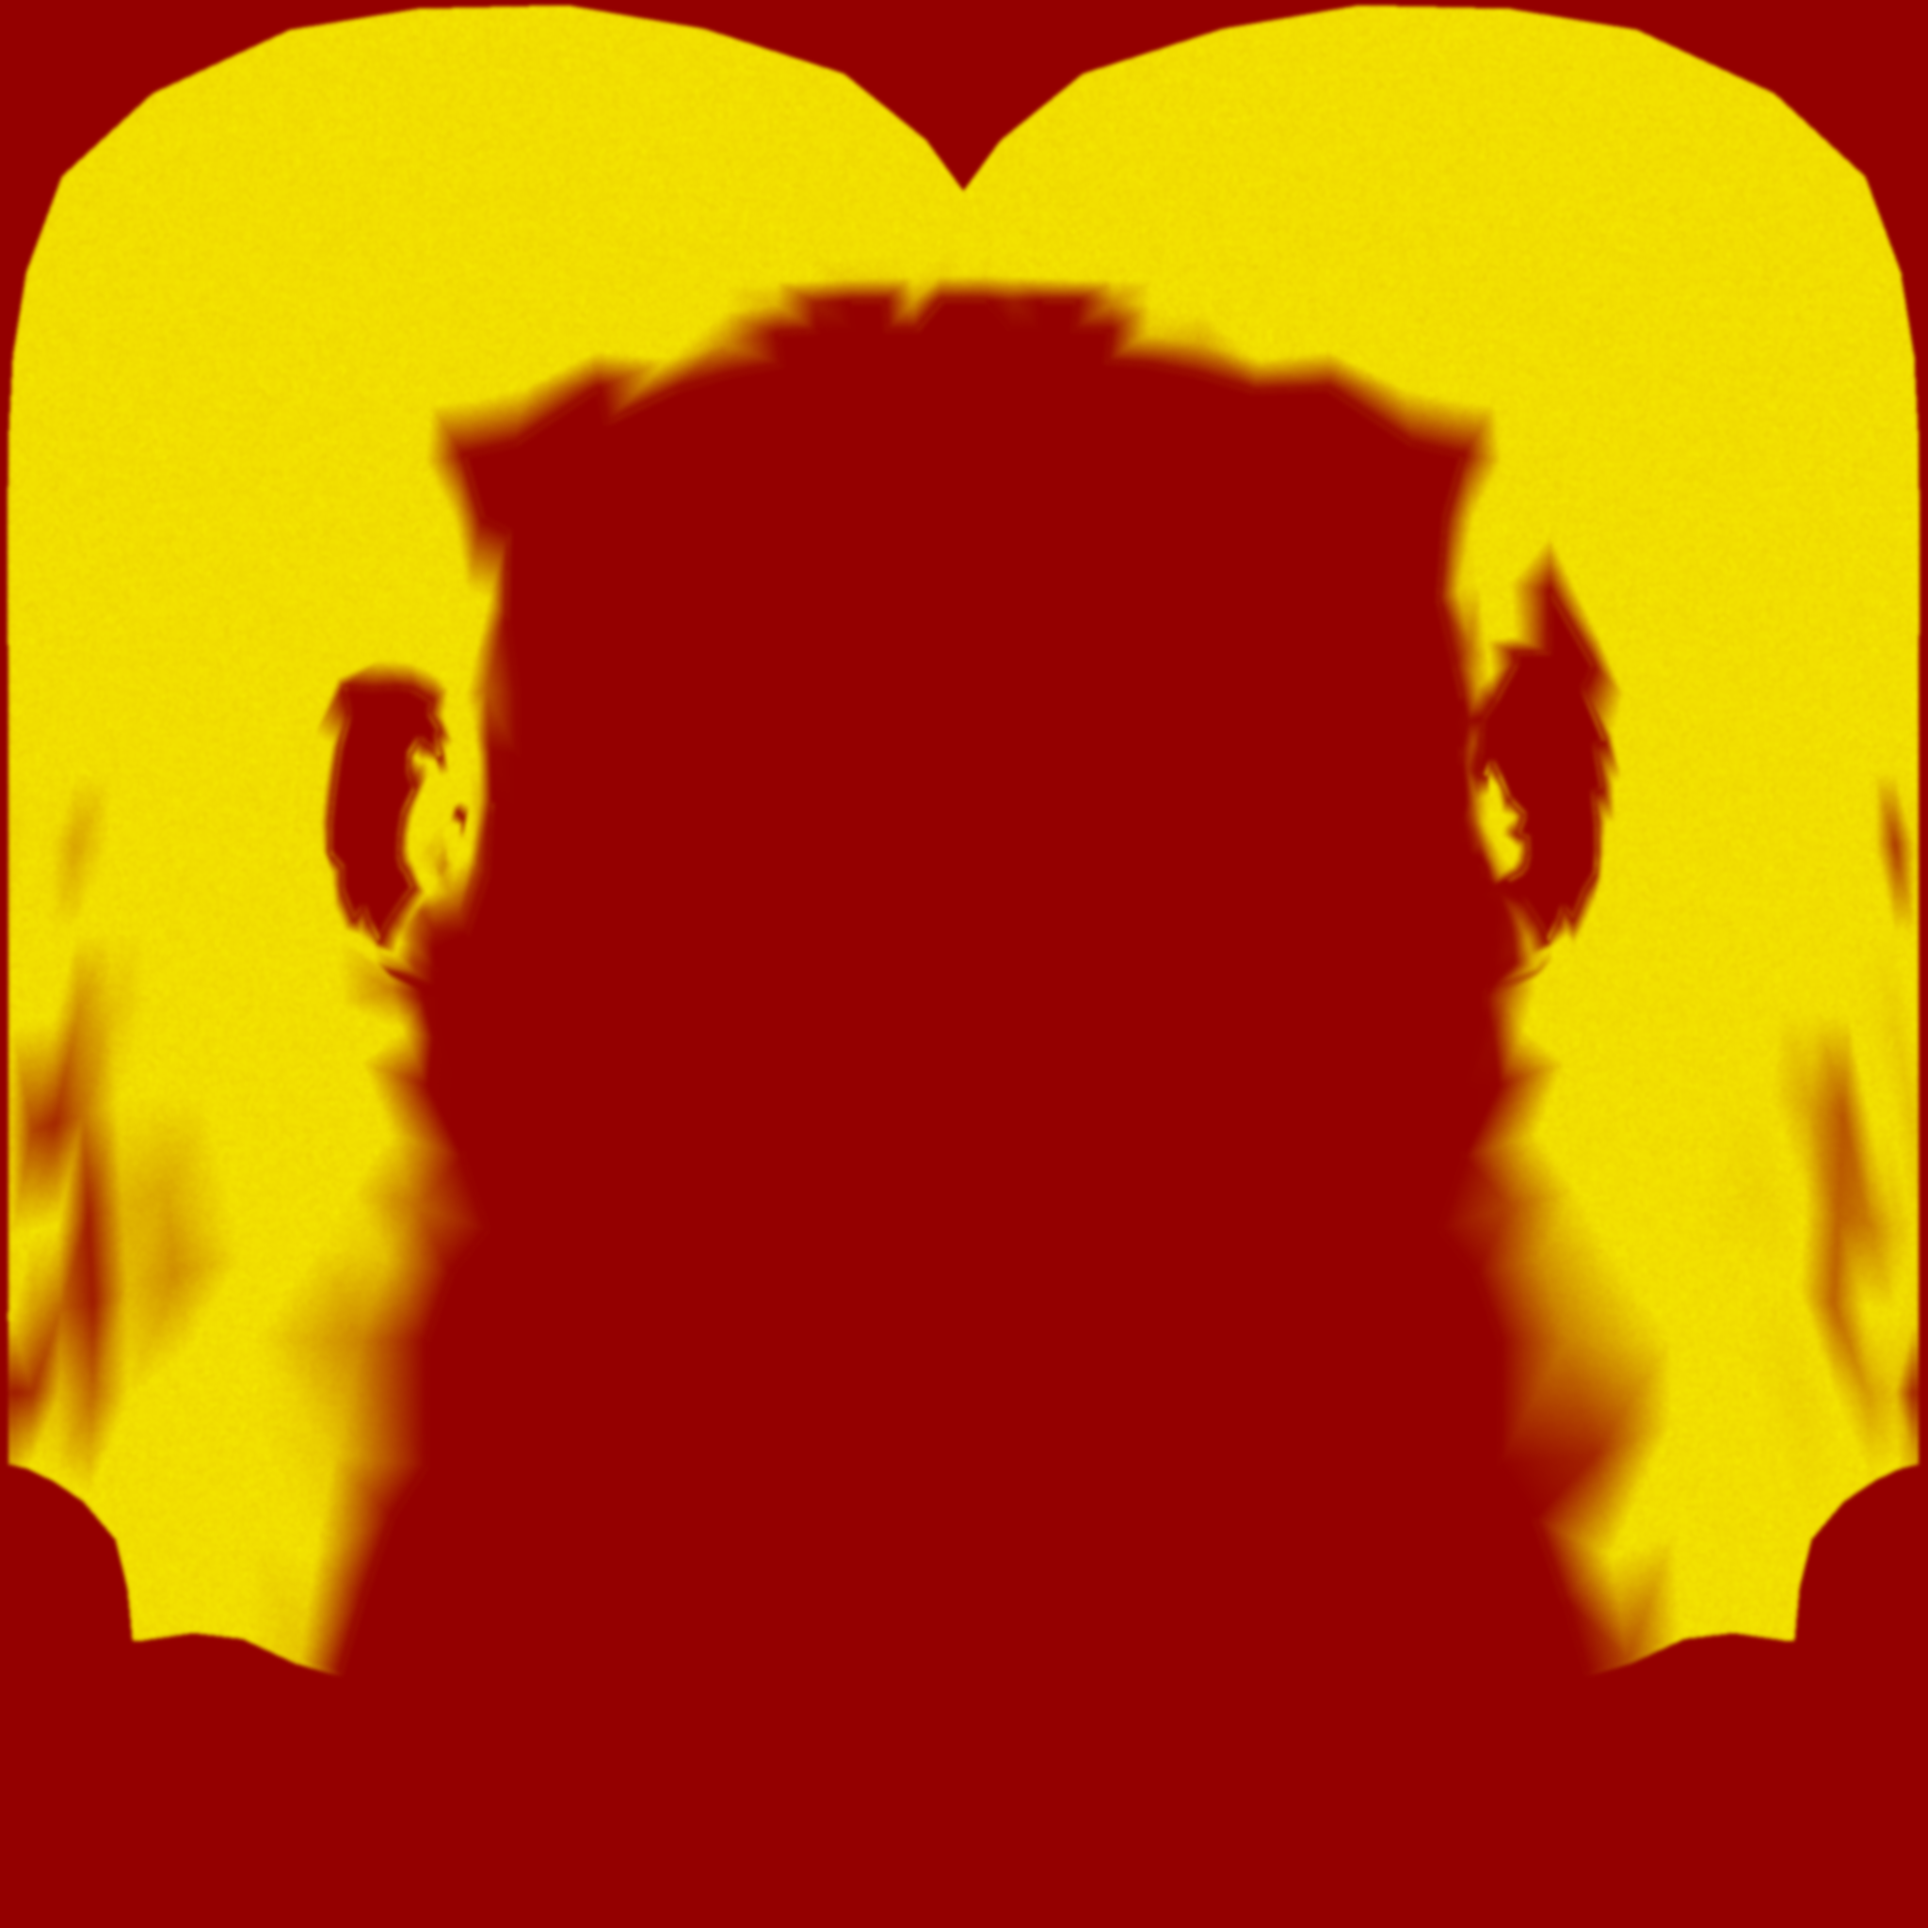
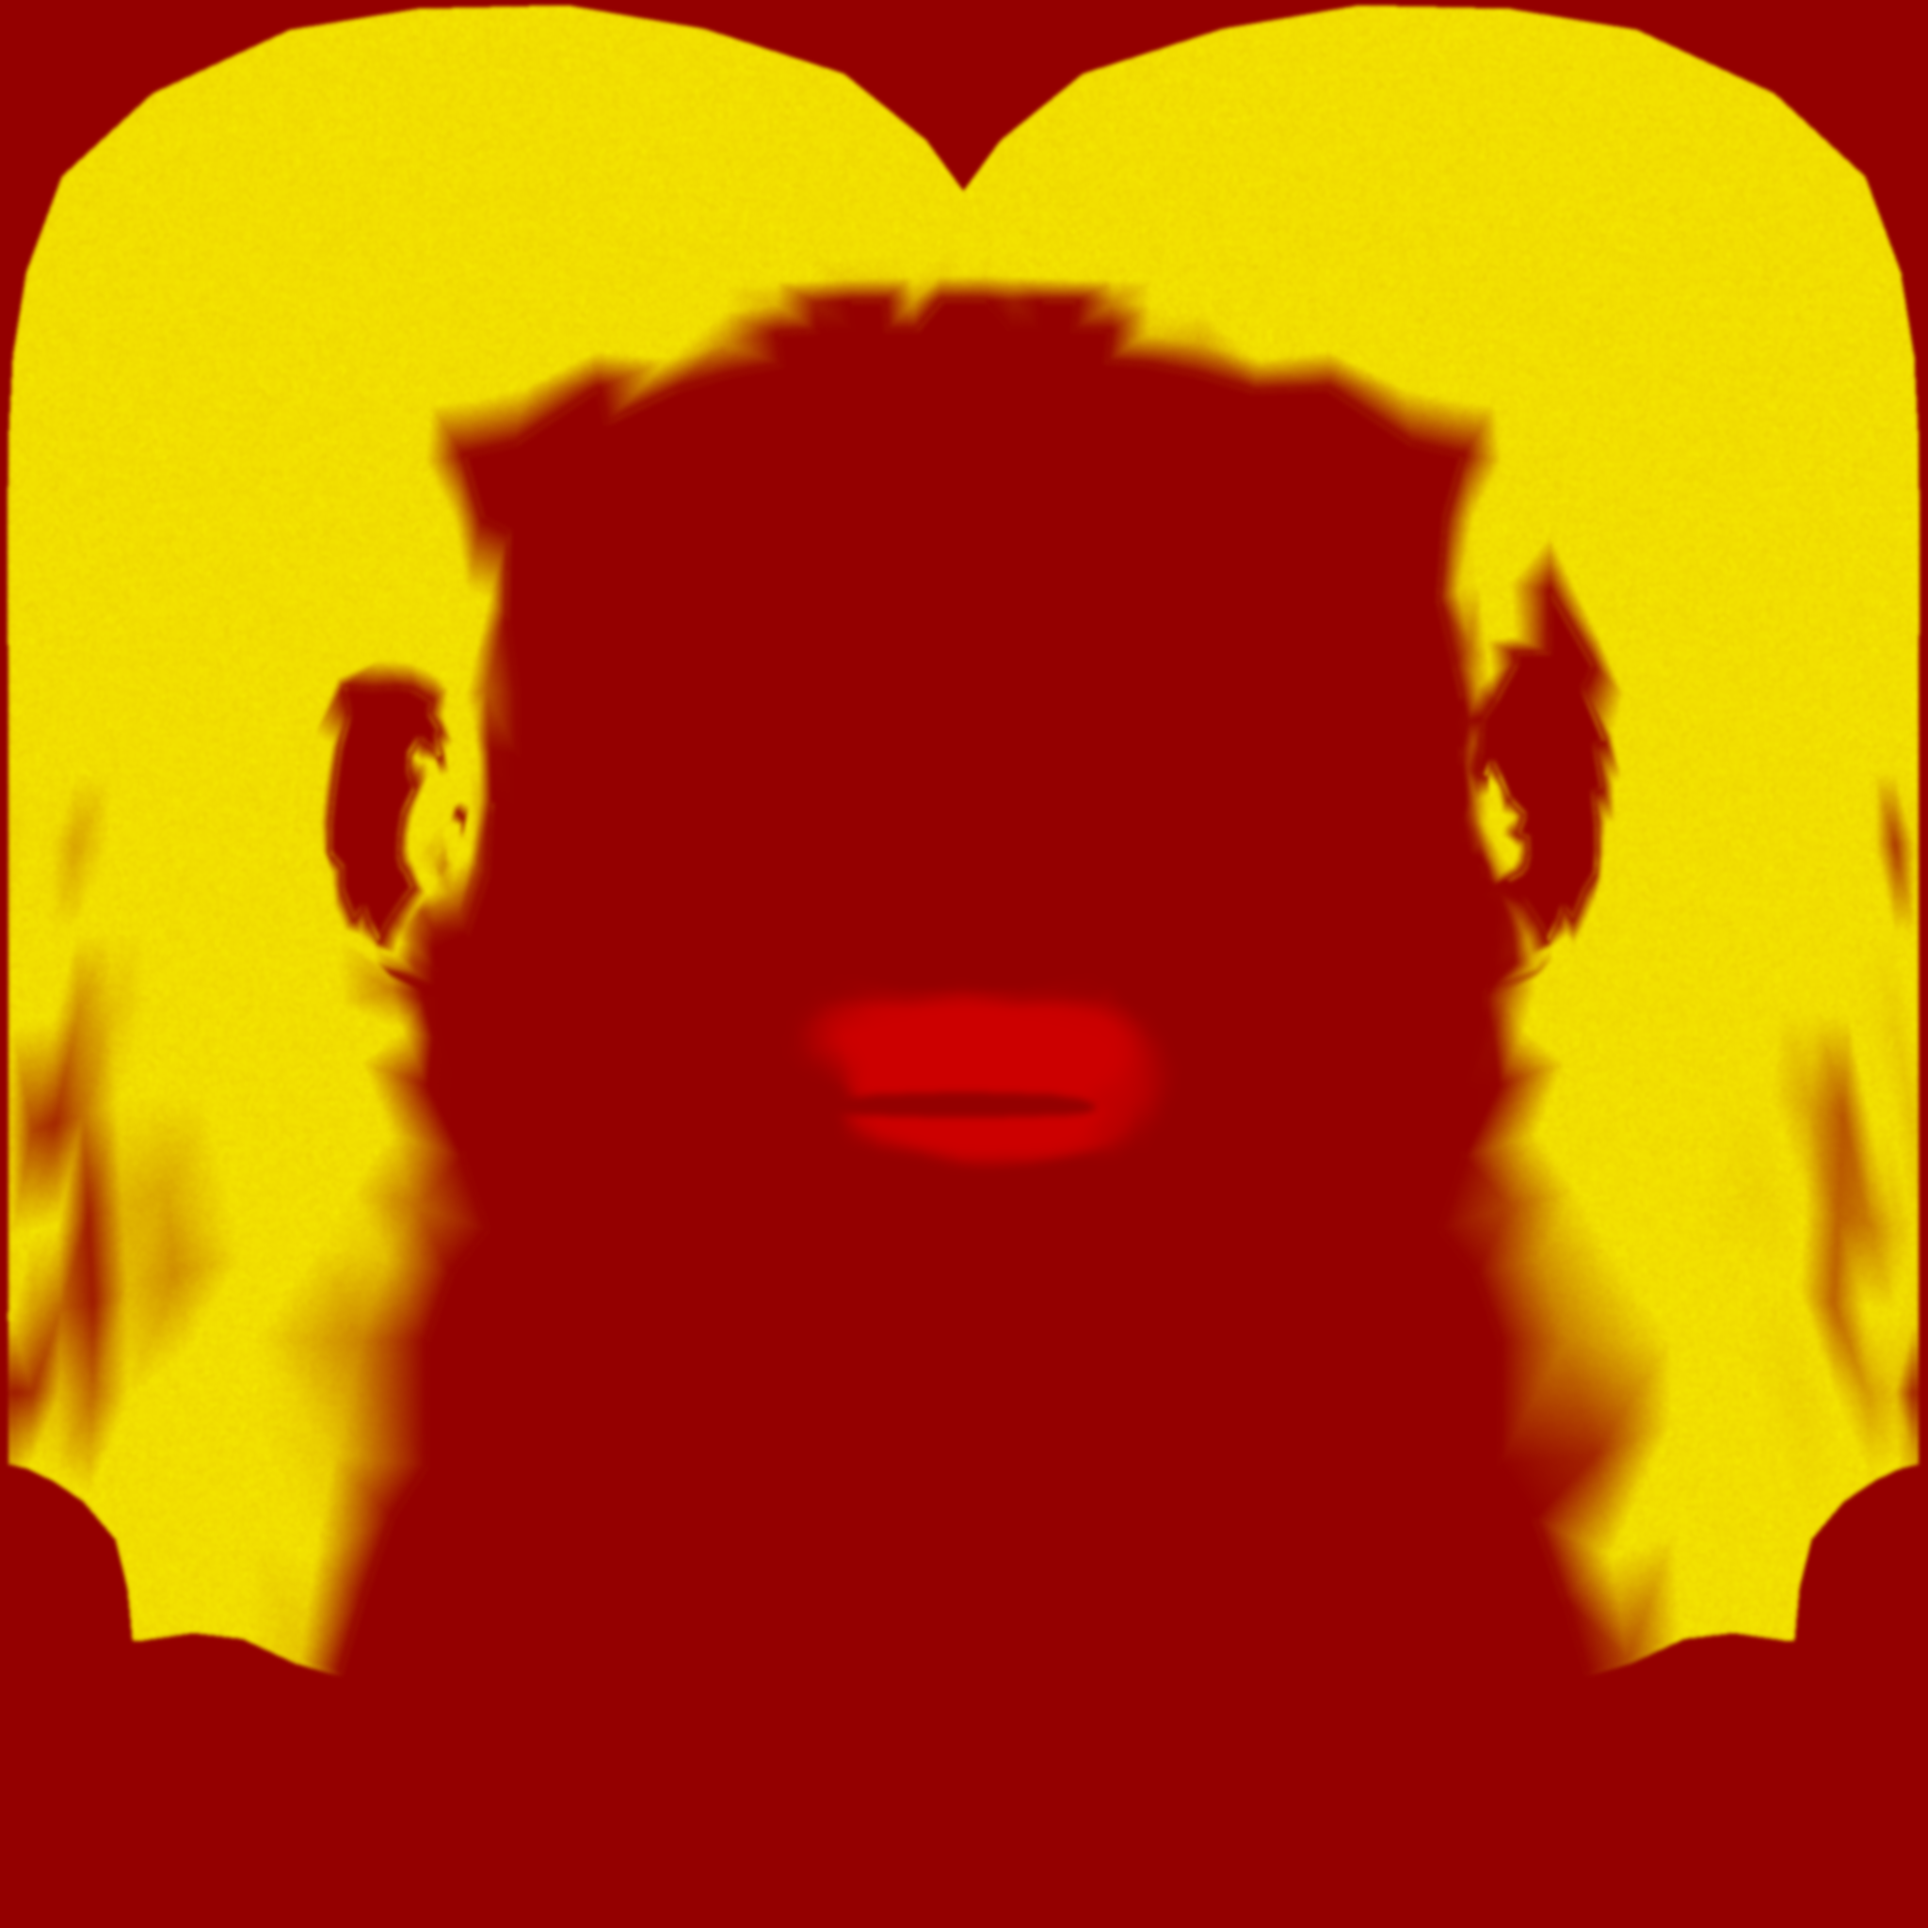
Roman's face to 2K26: softened creases, skin zones, deeper matte lips, heavier brows
paint_skin in build_roman_hair_alpha.py works over the reconstructed head
albedo: the wrinkle band at 45%, warm cheeks and nose, deeper eye sockets,
lips deepened and made matte in head_rm. Brows a fifth heavier and darker.
Test: lips deeper than the skin.

Claude-Session: https://claude.ai/code/session_01RyRo3mh3ZakHSDewU65aFM
(cherry picked from commit e533a9779000f837be823f1482b7e6e31cffd90a)

Changed region(s): [[0.4062, 0.5, 0.5938, 0.625]]

diff --git a/tools/assets/build_roman_hair_alpha.py b/tools/assets/build_roman_hair_alpha.py
@@ -222,6 +222,94 @@ def build_head(atlas: pathlib.Path, source: pathlib.Path, target: pathlib.Path) 
     print(f"{source.name:38} -> {target.name:34} skin tone {tone}, green mean {mean:.1f}")
 
 
+## Skin, worked over the reconstructed albedo (build_head).
+##
+## Against 2K26 the face read as a wax mask: one flat orange tint, every baked
+## crease at the same depth (forehead, crow's feet, nasolabial folds -- he
+## looked twenty years older and carved), and a pale peach mouth that drew
+## the eye before anything else did (gauntlet/refs/characters/review/
+## faces_2k26_vs_ours.jpg). A real face is zoned: warmer and redder across
+## the cheeks, nose and ears, where blood sits near the surface; darker and a
+## little cooler in the eye sockets; and lips several shades deeper than the
+## skin round them. So:
+##
+## 1. The bake is split into bands. The broad shading stays; the wrinkle band
+##    (WRINKLE_RADII) comes down to WRINKLE_KEEP; the pore band stays almost
+##    whole, so the skin keeps its grain.
+## 2. Each zone is an ellipsoid-ish falloff in the head's own 3D space,
+##    carried into texture space through the UVs (_uv_field) like the brows
+##    and the beard, and applied as a multiply so the texture's detail rides
+##    through.
+WRINKLE_RADII = (3, 18)
+WRINKLE_KEEP = 0.45
+PORE_KEEP = 0.9
+## (centre x, y, z, radius x, y, z, multiply RGB). x is mirrored.
+SKIN_ZONES = [
+    # cheeks: warm flush over the cheekbone
+    ((0.050, 1.688, 0.120), (0.030, 0.022, 0.040), (1.03, 0.95, 0.94)),
+    # nose: the same warmth, a touch stronger at the tip and wings
+    ((0.000, 1.680, 0.150), (0.020, 0.028, 0.030), (1.03, 0.95, 0.94)),
+    # eye sockets: deeper and cooler, the way his read under arena light
+    ((0.034, 1.718, 0.120), (0.022, 0.010, 0.030), (0.88, 0.86, 0.90)),
+]
+## The lips: deeper, browner and a little mauve, against skin that is warm.
+## (0.64, 0.54, 0.56) first: right in the texture, but the lower lip faces
+## up into the arena's overhead key and still rendered pale peach
+## (face_shot), so it goes deeper than it would under flat light.
+LIP_TONE = (0.50, 0.40, 0.43)
+LIP_Y = 1.647
+LIP_HALF_W = 0.026
+LIP_HALF_H = 0.0095
+LIP_FEATHER = 0.45
+## And matte, in the roughness map (written with the scalp cap's): at the
+## skin's 0.58 the lower lip, facing up into the overhead key, caught a
+## broad pale sheen that read as a peach band even once the colour was right.
+LIP_ROUGHNESS = 0.80
+_lip_field = None
+
+
+def paint_skin(model: pathlib.Path, target: pathlib.Path) -> None:
+    import numpy as np
+    head = _glb_attributes(model, "M_Head")
+    pos = np.array(head["POSITION"])
+    uv = np.array(head["TEXCOORD_0"])
+    tris = np.array(head["INDICES"]).reshape(-1, 3)
+    albedo = Image.open(target).convert("RGB")
+    size = albedo.size[0]
+    img = np.asarray(albedo, dtype=np.float32)
+
+    # 1. Soften the creases, keep the pores.
+    def blur(r):
+        return np.asarray(albedo.filter(ImageFilter.GaussianBlur(r)), dtype=np.float32)
+    fine, broad = blur(WRINKLE_RADII[0]), blur(WRINKLE_RADII[1])
+    img = broad + WRINKLE_KEEP * (fine - broad) + PORE_KEEP * (img - fine)
+
+    # 2. Colour zones.
+    tint = np.ones((size, size, 3), dtype=np.float32)
+    front = pos[:, 2] > 0.0
+    for centre, radius, mul in SKIN_ZONES:
+        for side in ((1.0, -1.0) if centre[0] else (1.0,)):
+            c = np.array([centre[0] * side, centre[1], centre[2]])
+            d = np.sqrt((((pos - c) / np.array(radius)) ** 2).sum(axis=1))
+            w = np.clip(1.0 - d, 0.0, 1.0) * front
+            w = w * w * (3.0 - 2.0 * w)
+            field = _uv_field(size, uv, tris, w)[..., None]
+            tint *= 1.0 + field * (np.array(mul, dtype=np.float32) - 1.0)
+    lip = np.sqrt((pos[:, 0] / LIP_HALF_W) ** 2 + ((pos[:, 1] - LIP_Y) / LIP_HALF_H) ** 2)
+    w = np.clip((1.0 + LIP_FEATHER - lip) / LIP_FEATHER, 0.0, 1.0) * (pos[:, 2] > 0.04)
+    global _lip_field
+    _lip_field = _uv_field(size, uv, tris, w * w * (3.0 - 2.0 * w))
+    field = _lip_field[..., None]
+    tint *= 1.0 + field * (np.array(LIP_TONE, dtype=np.float32) - 1.0)
+    # The zones are rasterised per triangle: blur off the facets.
+    tint_img = Image.fromarray(np.clip(tint * 127.5, 0, 255).astype(np.uint8), "RGB") \
+        .filter(ImageFilter.GaussianBlur(4))
+    tint = np.asarray(tint_img, dtype=np.float32) / 127.5
+    out = np.clip(img * tint, 0, 255).astype(np.uint8)
+    Image.fromarray(out, "RGB").save(target, optimize=True)
+    print(f"{'skin zones, lips':38} -> {target.name:34} wrinkles x{WRINKLE_KEEP}")
+
+
 ## Eyebrows, painted into the head albedo.
 ##
 ## The model has none that render. The beard/brow card mesh (M_Combinations)
@@ -238,7 +326,7 @@ def build_head(atlas: pathlib.Path, source: pathlib.Path, target: pathlib.Path) 
 ## Heavy, straight and low at the inner end, the way his are; thinning to a
 ## tail past the outer corner of the eye. Seeded, so the file is the same
 ## every build.
-BROW_COLOR = (22, 17, 14)
+BROW_COLOR = (16, 12, 10)
 BROW_SEED = 7
 ## (x from the midline, centre y, half-thickness) in metres along the brow.
 ##
@@ -248,13 +336,16 @@ BROW_SEED = 7
 ## his sit low and nearly straight over the eyes, the inner ends pulled down,
 ## which is most of his stare. Now it rises only 3 mm, peaks flat, and the
 ## tail barely drops; a touch thinner so it reads as hair, not marker.
-BROW_PROFILE = [(0.011, 1.7332, 0.0050), (0.020, 1.7348, 0.0053),
-                (0.032, 1.7360, 0.0047), (0.044, 1.7363, 0.0038),
-                (0.054, 1.7352, 0.0026), (0.060, 1.7336, 0.0013)]
+##
+## Then a fifth heavier, against 2K26's (faces_2k26_vs_ours.jpg): his are
+## thick dark bars at broadcast distance and ours read grey and thin.
+BROW_PROFILE = [(0.011, 1.7332, 0.0060), (0.020, 1.7348, 0.0064),
+                (0.032, 1.7360, 0.0056), (0.044, 1.7363, 0.0045),
+                (0.054, 1.7352, 0.0030), (0.060, 1.7336, 0.0015)]
 BROW_STRANDS = 900
 ## Opacity of the soft fill under the strands: skin never shows through a
 ## brow this dense at broadcast distance, where single strands filter away.
-BROW_FILL = 125
+BROW_FILL = 165
 BROW_SUPERSAMPLE = 4
 
 
@@ -743,6 +834,10 @@ def paint_scalp_cap(model: pathlib.Path, target: pathlib.Path,
     print(f"{'scalp cap':38} -> {target.name:34} {int((field > 0.05).sum())} texels")
     cover = np.asarray(mask, dtype=np.float32) / 255.0
     rough = HEAD_SKIN_ROUGHNESS + (SCALP_CAP_ROUGHNESS - HEAD_SKIN_ROUGHNESS) * cover
+    if _lip_field is not None:
+        lip = np.asarray(Image.fromarray((_lip_field * 255).astype(np.uint8), "L")
+                         .filter(ImageFilter.GaussianBlur(4)), dtype=np.float32) / 255.0
+        rough = np.maximum(rough, HEAD_SKIN_ROUGHNESS + (LIP_ROUGHNESS - HEAD_SKIN_ROUGHNESS) * lip)
     channels = [np.round(rough * 255), np.round(cover * 255), np.zeros_like(cover)]
     Image.merge("RGB", [Image.fromarray(c.astype(np.uint8), "L") for c in channels]) \
         .save(surface, optimize=True)
@@ -866,6 +961,7 @@ def main() -> int:
         CHARACTERS / "roman_reigns_Image.png",
         CHARACTERS / "roman_reigns_head_color.png",
     )
+    paint_skin(CHARACTERS / "roman_reigns.glb", CHARACTERS / "roman_reigns_head_color.png")
     paint_brows(CHARACTERS / "roman_reigns.glb", CHARACTERS / "roman_reigns_head_color.png")
     paint_beard_shadow(CHARACTERS / "roman_reigns.glb", CHARACTERS / "roman_reigns_head_color.png")
     paint_beard_strands(CHARACTERS / "roman_reigns.glb", CHARACTERS / "roman_reigns_head_color.png")

diff --git a/README.md b/README.md
@@ -9066,3 +9066,22 @@ Checked on side and end-on `paired_shot` frames, `test_pair_clearance`
   Rematch, Change Wrestlers, Title Screen and Quit.
 - Tests: `test_2k26_moves.gd`, `test_pause_menu.gd`, and the face-off shot
   lengths in `test_entrance_cameras.gd`.
+
+## Round: Roman's face to 2K26 (gauntlet/refs/characters/review/roman_face_before_after.jpg)
+
+The owner's ask: Roman's brows, eyes and features against the 2K26 model.
+His head albedo is a reconstruction (only the source's green channel
+survived), so it was one flat orange tint with every baked crease at full
+depth and a pale peach mouth.
+
+- **`paint_skin`** (`tools/assets/build_roman_hair_alpha.py`), run right after the rebuild:
+  - **Wrinkles:** the crease band is softened to 45%; pores are kept at 90%.
+  - **Skin zones:** warm cheeks and nose, deeper eye sockets. Each zone is placed in the head's 3D space and carried to texture space through the UVs.
+- **Lips:**
+  - Deeper and browner in the albedo.
+  - Matte in `head_rm` (roughness 0.80): under the overhead key the lower lip read pale peach.
+  - Measured on the face_shot render, the lower lip's brightest band went from 223 to 158.
+- **Brows:** a fifth heavier, darker and denser.
+- **Gates:**
+  - New test `test_lips_are_deeper_than_the_skin`.
+  - The build is deterministic: re-running it leaves git clean.
